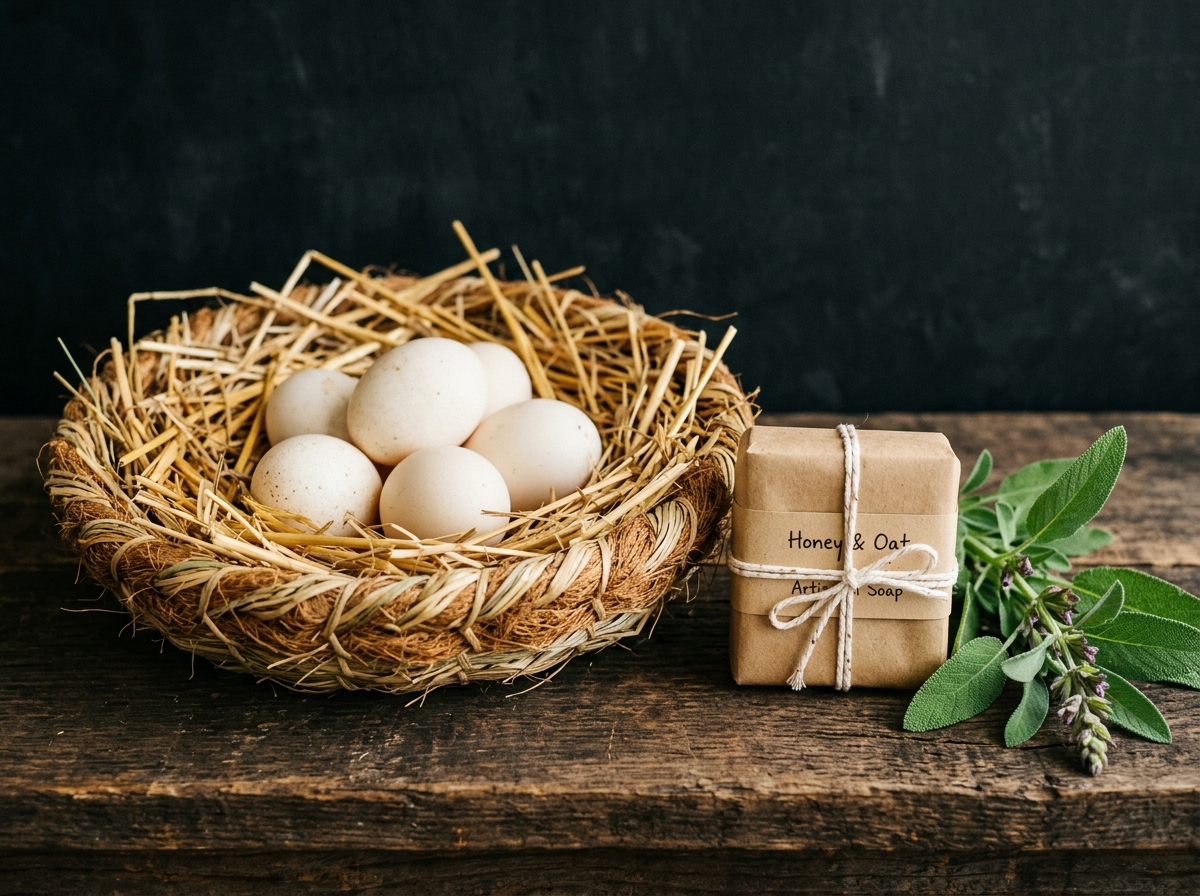
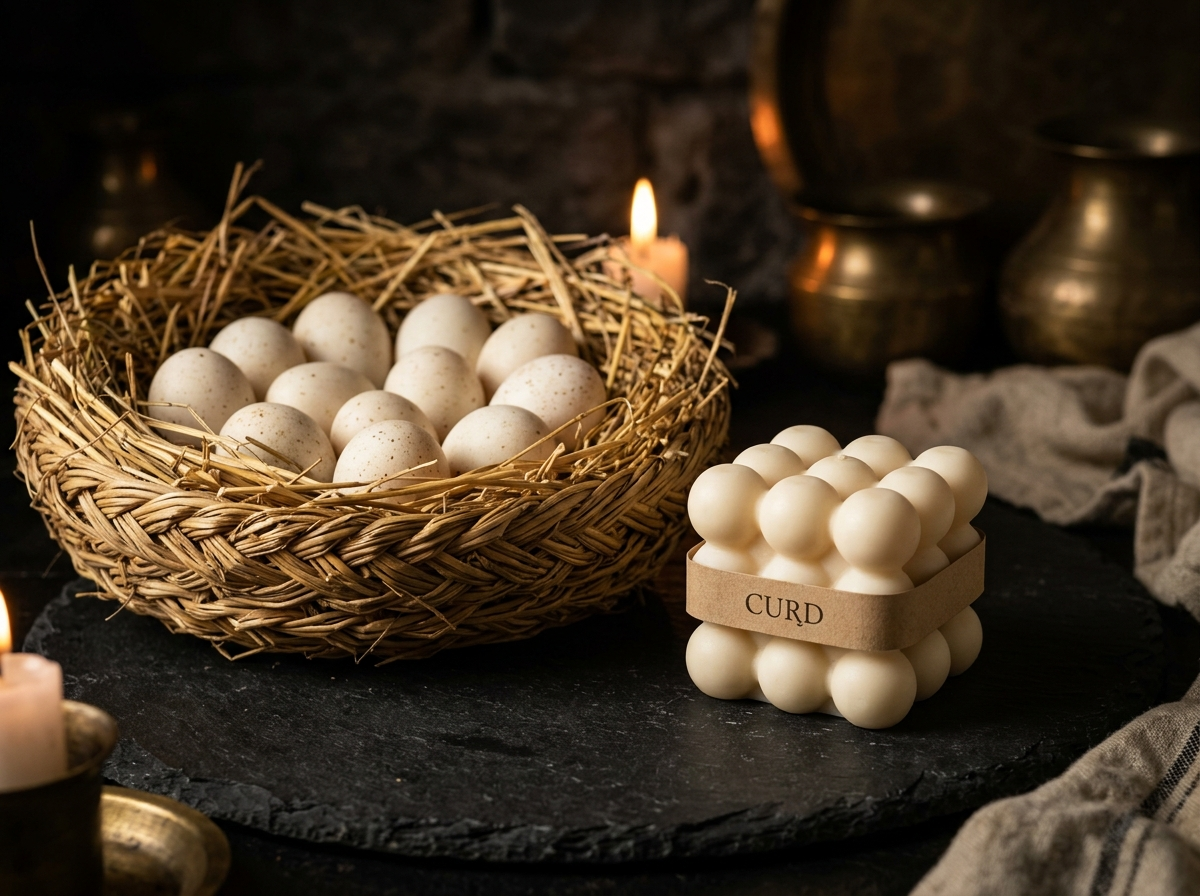
Fix search bar layout, replace hamper photos (remove honey/oat/wooden tray), remove charcoal soap and teak racks, add big puppy callout for 40x60 quilts

diff --git a/shop.html b/shop.html
@@ -566,17 +566,33 @@
                     Warm, soothing butter-yellow organically dyed brushed cotton. The plump 3-channel heirloom quilt is 100% solid pastel butter yellow on both sides, while the matching reversible throw blanket is solid pastel butter yellow on one side and crisp unbleached white printed with delicate pastel yellow five-pointed stars on the other.
                   </p>
 
+                  <!-- BIG PROMINENT PUPPY CALLOUT BANNER -->
+                  <div class="p-3.5 rounded-sm bg-brand-gold/15 border border-brand-gold/40 flex items-start gap-3 my-2">
+                    <div class="w-8 h-8 rounded-sm bg-brand-gold/25 text-brand-gold flex items-center justify-center flex-shrink-0 mt-0.5">
+                      <i data-lucide="heart" class="w-4 h-4"></i>
+                    </div>
+                    <div>
+                      <span class="text-[11px] font-mono uppercase tracking-widest text-brand-gold font-bold block">Crafted for Children &amp; Beloved Puppies</span>
+                      <p class="text-sm font-serif font-bold text-brand-cream">
+                        The 40" × 60" Quilt &amp; Throw Size is Made for Kids, Lap Comfort &amp; Puppies
+                      </p>
+                      <p class="text-[11px] text-brand-oat/75 leading-relaxed mt-0.5">
+                        100% pure organic cotton filled with Tamizhnad Ilavam Panju silk cotton. Breathable, chemical-free comfort for kids and peaceful, loving bedding for your puppies.
+                      </p>
+                    </div>
+                  </div>
+
                   <!-- Two-Piece Construction Breakdown -->
                   <div class="grid grid-cols-1 sm:grid-cols-2 gap-3 pt-1">
                     <div class="p-3 rounded-sm bg-black/35 border border-white/10">
                       <span class="text-[10px] font-mono uppercase tracking-wider text-brand-gold block">The Heirloom Quilt</span>
                       <p class="text-xs font-semibold text-brand-cream mt-0.5" id="lb-active-quilt-spec">100% Solid Pastel Butter Yellow</p>
-                      <p class="text-[11px] text-brand-oat/60 mt-0.5">3-channel Tamizhnad Ilavam Panju filling • Solid pastel • 40"×60" &amp; 60"×90"</p>
+                      <p class="text-[11px] text-brand-oat/60 mt-0.5">3-channel Ilavam Panju filling • 40"×60" (Kids &amp; Puppies) &amp; 60"×90" (Adult)</p>
                     </div>
                     <div class="p-3 rounded-sm bg-black/35 border border-white/10">
                       <span class="text-[10px] font-mono uppercase tracking-wider text-brand-mossLight block">The Reversible Throw</span>
                       <p class="text-xs font-semibold text-brand-cream mt-0.5" id="lb-active-throw-spec">Five-Pointed Stars Print + Solid Side</p>
-                      <p class="text-[11px] text-brand-oat/60 mt-0.5">Printed white one side, solid pastel reverse • 40"×60" &amp; 60"×90"</p>
+                      <p class="text-[11px] text-brand-oat/60 mt-0.5">Printed white one side, solid reverse • 40"×60" (Kids &amp; Puppies) &amp; 60"×90" (Adult)</p>
                     </div>
                   </div>
 
@@ -633,14 +649,14 @@
                     3×3 Spheres All Around • Tactile Massage Bar
                   </span>
                 </div>
-                <h3 class="font-serif text-2xl sm:text-3xl font-bold text-brand-cream">The 8 Sculptural 3D Bubble Cubes</h3>
+                <h3 class="font-serif text-2xl sm:text-3xl font-bold text-brand-cream">The 7 Sculptural 3D Bubble Cubes</h3>
                 <p class="text-xs sm:text-sm text-brand-oat/80 leading-relaxed">
                   Every soap is hand-poured into our signature <strong>sculptural 3D bubble cube mold</strong> — featuring rounded spheres all around that double as an acupressure body massage bar during your bath. Crafted simply with <strong>fresh cold-pressed coconut oil</strong>, <strong>living farmstead fresh organic curd</strong>, and pure whole botanicals, without fillers or synthetic fragrances.
                 </p>
                 <div class="p-3.5 rounded-sm bg-black/35 border border-white/10 space-y-1.5">
                   <span class="text-[10px] font-mono uppercase tracking-wider text-brand-gold block">Pure Living Earth Formulation:</span>
                   <p class="text-xs text-brand-cream leading-relaxed">
-                    Fresh Cold-Pressed Coconut Oil + Farmstead Organic Curd (Lactic Acid &amp; Natural Lipids) + Whole Botanicals. Aged 6 full weeks on teakwood shelves for an ultra-dense, skin-softening lather.
+                    Fresh Cold-Pressed Coconut Oil + Farmstead Organic Curd (Lactic Acid &amp; Natural Lipids) + Whole Botanicals. Aged 6 full weeks for an ultra-dense, skin-softening lather.
                   </p>
                 </div>
                 <div class="flex flex-wrap gap-2 pt-1">
@@ -651,11 +667,10 @@
                   <span class="px-2.5 py-1 rounded-sm bg-black/40 border border-white/10 text-xs text-brand-cream">Dry Grass • Green-Tinted Meadow</span>
                   <span class="px-2.5 py-1 rounded-sm bg-black/40 border border-white/10 text-xs text-brand-cream">Turmeric • Warm Golden Yellow</span>
                   <span class="px-2.5 py-1 rounded-sm bg-black/40 border border-white/10 text-xs text-brand-cream">Coffee • Deep Espresso Brown</span>
-                  <span class="px-2.5 py-1 rounded-sm bg-black/40 border border-white/10 text-xs text-brand-cream">Activated Charcoal • Matte Black</span>
                 </div>
                 <div class="pt-2 flex flex-wrap items-center gap-3">
                   <button type="button" onclick="filterCategory('soaps'); document.getElementById('shop-products-grid').scrollIntoView({behavior: 'smooth'});" class="px-4 py-2.5 rounded-sm bg-brand-forest hover:bg-brand-sage text-brand-cream text-xs font-semibold transition inline-flex items-center gap-1.5 shadow-md">
-                    <span>Explore All 8 Bubble Cubes Below</span>
+                    <span>Explore All 7 Bubble Cubes Below</span>
                     <i data-lucide="arrow-down" class="w-3.5 h-3.5"></i>
                   </button>
                   <button type="button" onclick="openProductModal('soap-curd')" class="px-3.5 py-2.5 rounded-sm bg-brand-barnwood hover:bg-brand-earth text-brand-cream text-xs font-semibold border border-white/15 transition inline-flex items-center gap-1.5">
@@ -675,7 +690,7 @@
                 <span class="text-[10px] font-mono text-brand-gold uppercase tracking-wider">3×3 Grid Cubes</span>
               </div>
               <div class="aspect-[16/10] bg-black/50 overflow-hidden">
-                <img src="assets/images/bubble-cube-curd.jpg?v=2" alt="Curd Soap 3D Bubble Cube on Reclaimed Teakwood" class="w-full h-full object-cover">
+                <img src="assets/images/bubble-cube-curd.jpg?v=2" alt="Curd Soap 3D Bubble Cube" class="w-full h-full object-cover">
               </div>
               <div class="stall-body space-y-1.5">
                 <h4 class="font-serif font-bold text-brand-cream text-base">Effortless Grip &amp; Acupressure Massage</h4>
@@ -687,16 +702,16 @@
 
             <div class="stall-card overflow-hidden">
               <div class="stall-header">
-                <span class="stall-label">8 Botanical Blends</span>
+                <span class="stall-label">7 Botanical Blends</span>
                 <span class="text-[10px] font-mono text-brand-mossLight uppercase tracking-wider">Pure Cold-Process</span>
               </div>
               <div class="aspect-[16/10] bg-black/50 overflow-hidden">
                 <img src="assets/images/bubble-cube-soaps-collection.jpg?v=1" alt="Full spectrum of 3D Bubble Cube curd soaps on rustic wood plank" class="w-full h-full object-cover">
               </div>
               <div class="stall-body space-y-1.5">
-                <h4 class="font-serif font-bold text-brand-cream text-base">Cured Naturally on Teakwood Racks</h4>
+                <h4 class="font-serif font-bold text-brand-cream text-base">Cold-Processed &amp; Naturally Cured</h4>
                 <p class="text-xs text-brand-oat/70 leading-relaxed">
-                  From creamy milky-ivory Curd to leafy Banana, pale Bamboo, textured Moringa, meadow Dry Grass, warm golden Turmeric, deep espresso Coffee, and matte Activated Charcoal — every bar shares our signature sculptural 3D bubble cube geometry.
+                  From creamy milky-ivory Curd to leafy Banana, pale Bamboo, textured Moringa, meadow Dry Grass, warm golden Turmeric, and deep espresso Coffee — every bar shares our signature sculptural 3D bubble cube geometry.
                 </p>
               </div>
             </div>
@@ -733,21 +748,21 @@
       </div>
 
       <!-- Filter & Search Toolbar -->
-      <div class="flex flex-col lg:flex-row items-center justify-between gap-6 mb-10 pb-6 border-b border-white/10">
+      <div class="flex flex-col lg:flex-row lg:items-center justify-between gap-4 mb-10 pb-6 border-b border-white/10">
 
-        <!-- Category Pills -->
-        <div class="flex items-center gap-2 overflow-x-auto w-full lg:w-auto pb-2 lg:pb-0" id="category-pills">
+        <!-- Category Pills (Clean flex-wrap, will never get covered or truncated) -->
+        <div class="flex flex-wrap items-center gap-2 max-w-full" id="category-pills">
           <!-- Injected via JS -->
         </div>
 
-        <!-- Search & Sort Controls -->
-        <div class="flex items-center gap-3 w-full lg:w-auto">
-          <div class="relative flex-1 lg:w-64">
-            <i data-lucide="search" class="w-4 h-4 text-brand-oat/40 absolute left-3.5 top-1/2 -translate-y-1/2"></i>
-            <input type="text" id="shop-search" placeholder="Search soaps, herbs, eggs..."
-              class="w-full pl-10 pr-4 py-2.5 rounded-sm border border-white/15 bg-brand-dark/50 text-brand-cream placeholder:text-brand-oat/40 text-xs focus:outline-none focus:border-brand-mossLight">
+        <!-- Search & Sort Controls (Compact & neat) -->
+        <div class="flex items-center gap-2 flex-shrink-0 self-start lg:self-auto">
+          <div class="relative w-36 sm:w-44">
+            <i data-lucide="search" class="w-3.5 h-3.5 text-brand-oat/40 absolute left-3 top-1/2 -translate-y-1/2"></i>
+            <input type="text" id="shop-search" placeholder="Search..."
+              class="w-full pl-8 pr-3 py-2 rounded-sm border border-white/15 bg-brand-dark/50 text-brand-cream placeholder:text-brand-oat/40 text-xs focus:outline-none focus:border-brand-mossLight">
           </div>
-          <select id="shop-sort" class="py-2.5 px-4 rounded-sm border border-white/15 bg-brand-dark/50 text-brand-cream text-xs focus:outline-none focus:border-brand-mossLight cursor-pointer">
+          <select id="shop-sort" class="py-2 px-3 rounded-sm border border-white/15 bg-brand-dark/50 text-brand-cream text-xs focus:outline-none focus:border-brand-mossLight cursor-pointer">
             <option value="featured">Featured First</option>
             <option value="price-asc">Price: Low to High</option>
             <option value="price-desc">Price: High to Low</option>
@@ -784,9 +799,9 @@
   </footer>
 
   <!-- Scripts -->
-  <script src="assets/js/data.js?v=20261023_v1_harvest"></script>
+  <script src="assets/js/data.js?v=20261023_v2_cleanest"></script>
   <script src="assets/js/cart.js"></script>
-  <script src="assets/js/main.js?v=20261023_v1_harvest"></script>
+  <script src="assets/js/main.js?v=20261023_v2_cleanest"></script>
   <script>
     const QUILT_LOOKBOOK = [
       {

diff --git a/assets/js/data.js b/assets/js/data.js
@@ -75,14 +75,14 @@ const PRODUCTS = [
     name: "The Artisanal Quilt Roll & Curd Soap Hamper",
     category: "bundles",
     price: 5800,
-    unit: "Master Collector Living Hamper",
+    unit: "Collector Living Quilt & Soap Hamper",
     badge: "Artisan Heirloom",
     badgeType: "featured",
     rating: 5.0,
     reviewsCount: 22,
-    image: "assets/images/quilt-hamper.jpg?v=4",
-    description: "The complete artisanal home upgrade: an individual artisanal quilt roll (60\" × 90\") filled with natural Ilavam Panju (silk cotton harvested from Tamizhnad) and handcrafted from GOTS-certified and OEKO-TEX certified organically dyed cotton fabric (the fabric itself carries the GOTS & OEKO-TEX certifications), paired with two cold-process curd soaps wrapped in plain unbranded eco-friendly organic paper stating only the botanical name (100% plastic-free) and sun-cured herbal leaves in a rustic wooden gift crate.",
-    ingredients: "Individual (60\" × 90\") Tamizhnad Ilavam Panju Quilt Roll (made from GOTS & OEKO-TEX certified fabric) + 2 Cold-Process Curd Soaps + Sun-Cured Herbal Leaves in White Pouches + Rustic Wooden Crate.",
+    image: "assets/images/quilt-hamper.jpg?v=clean_5",
+    description: "The complete farmstead set: an individual quilt (60" × 90") filled with Tamizhnad Ilavam Panju silk cotton, two cold-process curd soaps, and sun-cured herbal leaves in non-plastic packs.",
+    ingredients: "Individual (60" × 90") Tamizhnad Ilavam Panju Quilt Roll + 2 Cold-Process Curd Soaps + Sun-Cured Herbal Leaves in Non-Plastic Packs.",
     benefits: ["Natural Ilavam Panju (silk cotton harvested from Tamizhnad) filling encased in GOTS & OEKO-TEX certified cotton fabric", "100% eco-friendly labels & packaging — strictly NO PLASTIC", "Handcrafted durability built to last generations"],
     inStock: true,
     isFeatured: true,
@@ -93,14 +93,14 @@ const PRODUCTS = [
     name: "The Pasture Duck Egg & Curd Soap Nest",
     category: "bundles",
     price: 950,
-    unit: "Wooden Tray with 12 Eggs & Curd Soap",
+    unit: "Straw Nest with 12 Eggs & Curd Soap",
     badge: "Daily Ritual",
     badgeType: "featured",
     rating: 4.9,
     reviewsCount: 34,
-    image: "assets/images/egg-soap-nest.jpg",
+    image: "assets/images/egg-soap-nest.jpg?v=curd_only_5",
     description: "A fresh morning pairing: 12 pasture duck eggs, an artisanal curd soap bar, and sun-cured sacred tulsi leaves.",
-    ingredients: "12 Pasture Duck Eggs + 1 Farmstead Curd Soap Bar + Sun-Cured Sacred Tulsi in Clean Straw Bed.",
+    ingredients: "12 Pasture Duck Eggs + 1 Farmstead Curd Soap Bar + Sun-Cured Sacred Tulsi in Golden Straw Nest.",
     benefits: ["Rich in natural nutrients and skin-loving lipids", "Free of chemical pesticides or artificial additives", "Packaged in eco-friendly compostable straw bedding"],
     inStock: true,
     isFeatured: true,
@@ -234,24 +234,7 @@ const PRODUCTS = [
     isFeatured: false,
     wholesaleAvailable: true
   },
-  {
-    id: "soap-charcoal",
-    name: "Activated Charcoal",
-    category: "soaps",
-    price: 440,
-    unit: "120g 3D Bubble Cube",
-    badge: "Matte Charcoal Black",
-    badgeType: "organic",
-    rating: 4.9,
-    reviewsCount: 35,
-    image: "assets/images/bubble-cube-soaps-collection.jpg?v=charcoal",
-    description: "Detoxifying cold-process 3D bubble cube soap crafted with fresh cold-pressed coconut oil, fresh farm curd, and steam-activated coconut shell charcoal. Smooth matte charcoal tone for a deep, clarifying cleanse.",
-    ingredients: "Fresh Cold-Pressed Coconut Oil, Farmstead Fresh Organic Curd, Steam-Activated Coconut Shell Charcoal.",
-    benefits: ["Activated charcoal draws out deep pore impurities", "3D bubble contours provide a firm grip and stimulating massage", "Balances excess oil while preserving natural skin moisture"],
-    inStock: true,
-    isFeatured: false,
-    wholesaleAvailable: true
-  },
+
 
   // PASTURE DUCK EGGS
   {
@@ -274,18 +257,18 @@ const PRODUCTS = [
   },
   {
     id: "eggs-pasture-duck-24",
-    name: "Pasture-Roaming Duck Eggs — Farmstead Crate (24 Eggs / 2 Dozen)",
+    name: "Pasture-Roaming Duck Eggs — Farmstead Pack (24 Eggs / 2 Dozen)",
     category: "duck-eggs",
     price: 950,
-    unit: "24 Jumbo Eggs in Handcrafted Wooden Straw Crate",
-    badge: "Farm Crate",
+    unit: "24 Jumbo Eggs in Natural Meadow Straw",
+    badge: "Family Pack",
     badgeType: "featured",
     rating: 5.0,
     reviewsCount: 19,
     image: "assets/images/duck-eggs.jpg",
-    description: "Two full dozen (24 jumbo eggs) fresh pasture-roaming duck eggs nestled securely in clean golden meadow straw inside a rustic wooden crate. Specially curated for families, healthy kitchens, and gourmet baking.",
-    ingredients: "24 Free-Range Pasture-Raised Organic Duck Eggs + Handcrafted Wooden Crate + Natural Golden Straw Bedding.",
-    benefits: ["Direct farm harvest with maximum freshness and richness", "High in natural vitamins A, B12, and healthy fatty acids", "Eco-friendly compostable straw cushioning in reusable crate"],
+    description: "Two full dozen (24 jumbo eggs) fresh pasture-roaming duck eggs nestled securely in clean golden meadow straw. Specially curated for families, healthy kitchens, and gourmet baking.",
+    ingredients: "24 Free-Range Pasture-Raised Organic Duck Eggs + Natural Golden Straw Bedding.",
+    benefits: ["Direct farm harvest with maximum freshness and richness", "High in natural vitamins A, B12, and healthy fatty acids", "Eco-friendly compostable straw cushioning"],
     inStock: true,
     isFeatured: false,
     wholesaleAvailable: true
@@ -298,7 +281,7 @@ const PRODUCTS = [
     category: "quilts",
     price: 5400,
     unit: "40\" × 60\" Solid Pastel Kids Quilt • Tamizhnad Ilavam Panju",
-    badge: "Pastel Lavender • Solid Quilt",
+    badge: "For Kids & Puppies",
     badgeType: "featured",
     rating: 5.0,
     reviewsCount: 16,

diff --git a/index.html b/index.html
@@ -611,7 +611,7 @@
           <div class="relative w-full max-w-md lg:max-w-none">
             <!-- Vertical Picture (Thick in center, fading in vertical oval/egg shape) -->
             <div class="hero-vertical-blend aspect-[3/4] w-full overflow-hidden" style="-webkit-mask-image: radial-gradient(ellipse 48% 49% at 50% 50%, #000000 0%, #000000 45%, rgba(0, 0, 0, 0.92) 60%, rgba(0, 0, 0, 0.65) 75%, rgba(0, 0, 0, 0.30) 88%, rgba(0, 0, 0, 0.08) 96%, transparent 100%); mask-image: radial-gradient(ellipse 48% 49% at 50% 50%, #000000 0%, #000000 45%, rgba(0, 0, 0, 0.92) 60%, rgba(0, 0, 0, 0.65) 75%, rgba(0, 0, 0, 0.30) 88%, rgba(0, 0, 0, 0.08) 96%, transparent 100%); -webkit-mask-size: 100% 100%; mask-size: 100% 100%;">
-              <img src="assets/images/hero-vertical.jpg?v=oval_egg_mask_v24" alt="Artisanal coir straw basket with pasture duck eggs, handcrafted Honey &amp; Oat cold-process soaps tied with textured cotton thread, black mud pot of fresh curd with wooden spoon, rolled waffle cotton quilt, and herbal stems" class="w-full h-full object-cover object-center" style="-webkit-mask-image: radial-gradient(ellipse 48% 49% at 50% 50%, #000000 0%, #000000 45%, rgba(0, 0, 0, 0.92) 60%, rgba(0, 0, 0, 0.65) 75%, rgba(0, 0, 0, 0.30) 88%, rgba(0, 0, 0, 0.08) 96%, transparent 100%); mask-image: radial-gradient(ellipse 48% 49% at 50% 50%, #000000 0%, #000000 45%, rgba(0, 0, 0, 0.92) 60%, rgba(0, 0, 0, 0.65) 75%, rgba(0, 0, 0, 0.30) 88%, rgba(0, 0, 0, 0.08) 96%, transparent 100%); -webkit-mask-size: 100% 100%; mask-size: 100% 100%;">
+              <img src="assets/images/hero-vertical.jpg?v=oval_egg_mask_v24" alt="Pasture duck eggs, handcrafted cold-process curd soaps, fresh curd pot, and heirloom quilt" class="w-full h-full object-cover object-center" style="-webkit-mask-image: radial-gradient(ellipse 48% 49% at 50% 50%, #000000 0%, #000000 45%, rgba(0, 0, 0, 0.92) 60%, rgba(0, 0, 0, 0.65) 75%, rgba(0, 0, 0, 0.30) 88%, rgba(0, 0, 0, 0.08) 96%, transparent 100%); mask-image: radial-gradient(ellipse 48% 49% at 50% 50%, #000000 0%, #000000 45%, rgba(0, 0, 0, 0.92) 60%, rgba(0, 0, 0, 0.65) 75%, rgba(0, 0, 0, 0.30) 88%, rgba(0, 0, 0, 0.08) 96%, transparent 100%); -webkit-mask-size: 100% 100%; mask-size: 100% 100%;">
             </div>
           </div>
         </div>
@@ -991,9 +991,9 @@
   </footer>
 
   <!-- Scripts -->
-  <script src="assets/js/data.js?v=20261023_v1_harvest"></script>
+  <script src="assets/js/data.js?v=20261023_v2_cleanest"></script>
   <script src="assets/js/cart.js"></script>
-  <script src="assets/js/main.js?v=20261023_v1_harvest"></script>
+  <script src="assets/js/main.js?v=20261023_v2_cleanest"></script>
   <script>
     document.addEventListener('DOMContentLoaded', () => {
 

diff --git a/wholesale.html b/wholesale.html
@@ -687,9 +687,9 @@
   </footer>
 
   <!-- Scripts -->
-  <script src="assets/js/data.js?v=20261023_v1_harvest"></script>
+  <script src="assets/js/data.js?v=20261023_v2_cleanest"></script>
   <script src="assets/js/cart.js"></script>
-  <script src="assets/js/main.js?v=20261023_v1_harvest"></script>
+  <script src="assets/js/main.js?v=20261023_v2_cleanest"></script>
   <script>
     document.addEventListener('DOMContentLoaded', () => {
       const tiersGrid = document.getElementById('wholesale-tiers-grid');

diff --git a/contact.html b/contact.html
@@ -612,9 +612,9 @@
   </footer>
 
   <!-- Scripts -->
-  <script src="assets/js/data.js?v=20261023_v1_harvest"></script>
+  <script src="assets/js/data.js?v=20261023_v2_cleanest"></script>
   <script src="assets/js/cart.js"></script>
-  <script src="assets/js/main.js?v=20261023_v1_harvest"></script>
+  <script src="assets/js/main.js?v=20261023_v2_cleanest"></script>
   <script>
     function renderFAQs() {
       const container = document.getElementById('faqs-accordion');

diff --git a/blog.html b/blog.html
@@ -510,9 +510,9 @@
   </footer>
 
   <!-- Scripts -->
-  <script src="assets/js/data.js?v=20261023_v1_harvest"></script>
+  <script src="assets/js/data.js?v=20261023_v2_cleanest"></script>
   <script src="assets/js/cart.js"></script>
-  <script src="assets/js/main.js?v=20261023_v1_harvest"></script>
+  <script src="assets/js/main.js?v=20261023_v2_cleanest"></script>
   <script>
     let showingAllArticles = new URLSearchParams(window.location.search).get('all') === '1';
 

diff --git a/about.html b/about.html
@@ -879,9 +879,9 @@
   </footer>
 
   <!-- Scripts -->
-  <script src="assets/js/data.js?v=20261023_v1_harvest"></script>
+  <script src="assets/js/data.js?v=20261023_v2_cleanest"></script>
   <script src="assets/js/cart.js"></script>
-  <script src="assets/js/main.js?v=20261023_v1_harvest"></script>
+  <script src="assets/js/main.js?v=20261023_v2_cleanest"></script>
   <script>
     let currentSanctuarySlide = 0;
     const totalSanctuarySlides = 4;

diff --git a/visit.html b/visit.html
@@ -659,9 +659,9 @@
   </footer>
 
   <!-- Scripts -->
-  <script src="assets/js/data.js?v=20261023_v1_harvest"></script>
+  <script src="assets/js/data.js?v=20261023_v2_cleanest"></script>
   <script src="assets/js/cart.js"></script>
-  <script src="assets/js/main.js?v=20261023_v1_harvest"></script>
+  <script src="assets/js/main.js?v=20261023_v2_cleanest"></script>
   <script>
     let guestCount = 2;
     let lastBookingData = null;

diff --git a/404.html b/404.html
@@ -528,6 +528,6 @@
       vertBar.addEventListener('mouseleave', () => scheduleClose(150));
     })();
   </script>
-  <script src="assets/js/main.js?v=20261023_v1_harvest"></script>
+  <script src="assets/js/main.js?v=20261023_v2_cleanest"></script>
 </body>
 </html>
